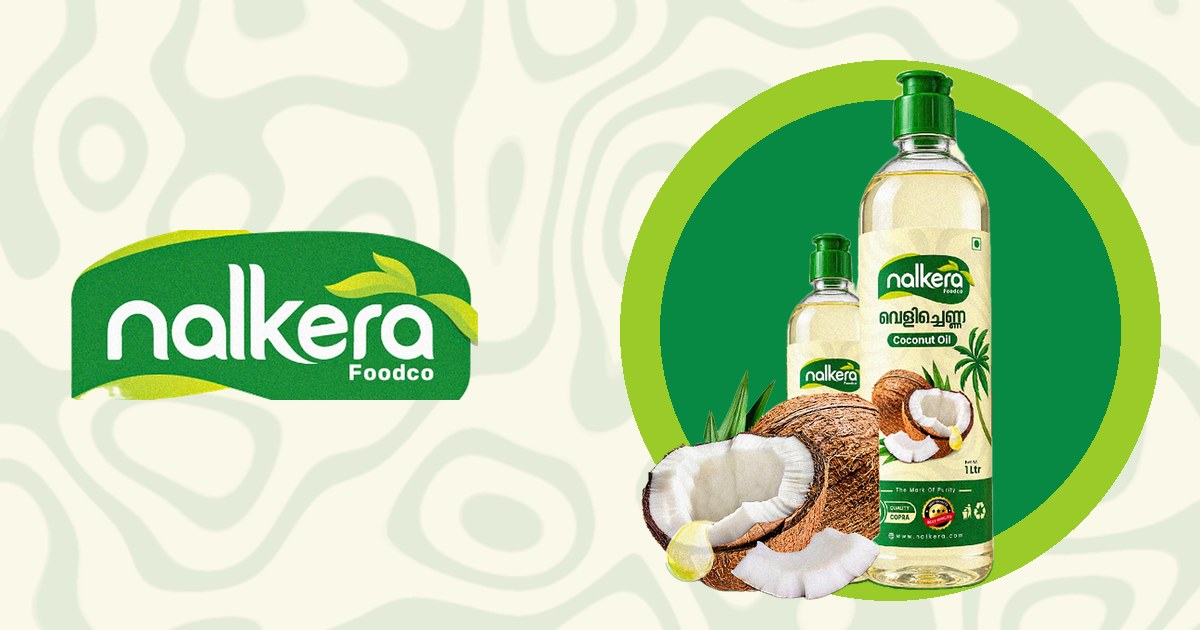
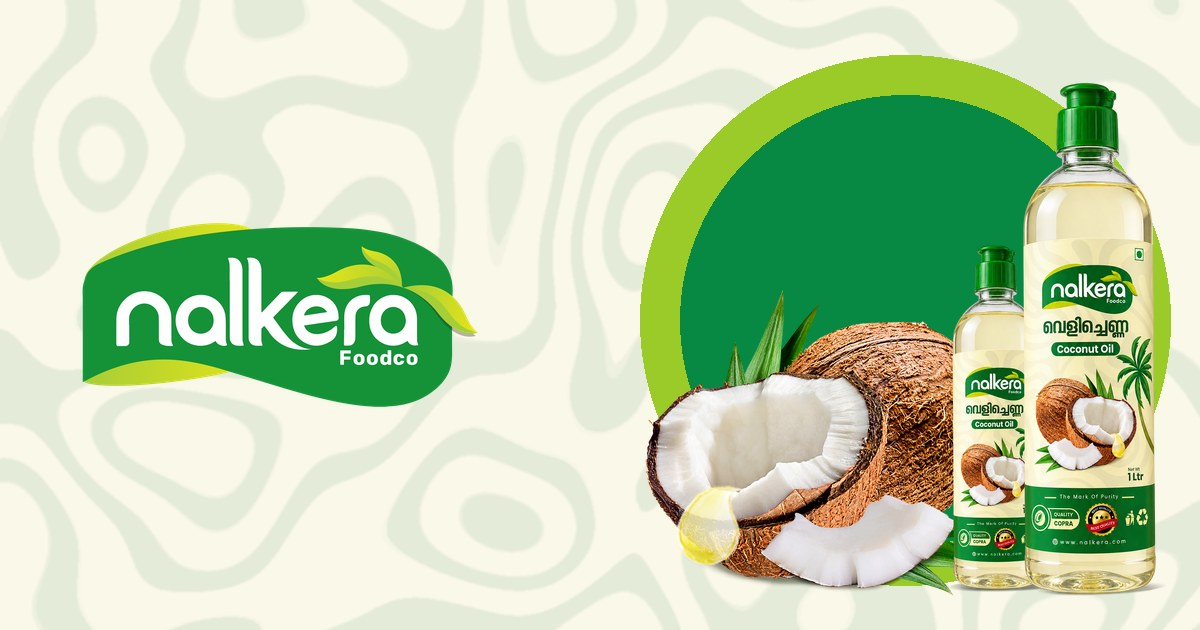
Update README with new brand asset locations and replace low-res images; add original design files for coconut oil products; update image paths in components to use new assets.

diff --git a/src/components/ContactSection.tsx b/src/components/ContactSection.tsx
@@ -78,7 +78,7 @@ export function ContactSection() {
             </motion.div>
           </div>
 
-          <div className="relative mx-auto hidden aspect-[3/4] w-full max-w-[380px] lg:block">
+          <div className="relative mx-auto hidden aspect-square w-full max-w-[460px] lg:block">
             <motion.div
               aria-hidden
               initial={{ scale: 0.8, opacity: 0 }}
@@ -92,15 +92,15 @@ export function ContactSection() {
               whileInView={{ opacity: 1, y: 0, rotate: 0 }}
               viewport={{ once: true, amount: 0.3 }}
               transition={{ duration: 1.4, ease, delay: 0.2 }}
-              className="absolute inset-0 flex justify-center"
+              className="absolute inset-0 flex items-center justify-center"
             >
               <Image
-                src="/images/nalkera-coconut-oil-bottles.png"
-                alt="Nalkera Coconut Oil bottles"
-                width={448}
-                height={1118}
-                sizes="300px"
-                className="h-full w-auto drop-shadow-[0_40px_40px_rgba(0,0,0,0.35)]"
+                src="/images/brand/nalkera-coconut-oil-with-coconut.png"
+                alt="Nalkera Coconut Oil bottles beside a halved coconut"
+                width={1587}
+                height={1571}
+                sizes="460px"
+                className="h-auto w-full drop-shadow-[0_40px_40px_rgba(0,0,0,0.35)]"
               />
             </motion.div>
           </div>

diff --git a/src/components/ProductShowcase.tsx b/src/components/ProductShowcase.tsx
@@ -15,17 +15,17 @@ const views = [
   {
     key: "single",
     label: "1 Ltr bottle",
-    src: "/images/nalkera-coconut-oil-1l.png",
-    width: 290,
-    height: 1118,
+    src: "/images/brand/nalkera-coconut-oil-1l.png",
+    width: 554,
+    height: 1954,
     alt: "Nalkera Coconut Oil 1 litre bottle with a green cap and a label reading വെളിച്ചെണ്ണ Coconut Oil",
   },
   {
     key: "pair",
     label: "Both bottles",
-    src: "/images/nalkera-coconut-oil-bottles.png",
-    width: 448,
-    height: 1118,
+    src: "/images/brand/nalkera-coconut-oil-bottles.png",
+    width: 836,
+    height: 1954,
     alt: "Two Nalkera Coconut Oil bottles side by side",
   },
 ] as const;
@@ -112,7 +112,7 @@ export function ProductShowcase() {
             transition={{ duration: 1.4, ease, delay: 0.5 }}
             className="absolute -right-2 bottom-[2%] w-[38%] sm:right-[2%]"
           >
-            <Image src="/images/coconut.png" alt="" width={680} height={648} sizes="220px" className="h-auto w-full -scale-x-100 drop-shadow-[0_20px_20px_rgba(4,63,37,0.3)]" />
+            <Image src="/images/brand/coconut.png" alt="" width={1357} height={1177} sizes="220px" className="h-auto w-full -scale-x-100 drop-shadow-[0_20px_20px_rgba(4,63,37,0.3)]" />
           </motion.div>
         </div>
 

diff --git a/src/components/HeroSection.tsx b/src/components/HeroSection.tsx
@@ -145,10 +145,10 @@ export function HeroSection() {
                 className="h-full"
               >
                 <Image
-                  src="/images/nalkera-coconut-oil-bottles.png"
+                  src="/images/brand/nalkera-coconut-oil-bottles.png"
                   alt="Two Nalkera Coconut Oil bottles with green caps and വെളിച്ചെണ്ണ Coconut Oil labels"
-                  width={448}
-                  height={1118}
+                  width={836}
+                  height={1954}
                   priority
                   sizes="(min-width: 1024px) 260px, 200px"
                   className="h-full w-auto drop-shadow-[0_30px_30px_rgba(4,63,37,0.35)]"
@@ -170,10 +170,10 @@ export function HeroSection() {
               transition={{ duration: 1.4, ease, delay: 0.8 }}
             >
               <Image
-                src="/images/coconut.png"
+                src="/images/brand/coconut.png"
                 alt=""
-                width={680}
-                height={648}
+                width={1357}
+                height={1177}
                 priority
                 sizes="(min-width: 1024px) 260px, 45vw"
                 className="h-auto w-full drop-shadow-[0_24px_24px_rgba(4,63,37,0.3)]"

diff --git a/src/components/Footer.tsx b/src/components/Footer.tsx
@@ -8,7 +8,7 @@ export function Footer() {
       <div className="mx-auto max-w-7xl px-5 pb-10 pt-20 md:px-8">
         <div className="grid gap-14 md:grid-cols-[1.5fr_1fr_1fr] md:gap-10">
           <div className="max-w-sm">
-            <Image src="/images/nalkera-logo.png" alt="Nalkera Foodco" width={768} height={320} sizes="150px" className="h-auto w-[150px]" />
+            <Image src="/images/brand/nalkera-logo.png" alt="Nalkera Foodco" width={1429} height={673} sizes="150px" className="h-auto w-[150px]" />
             <p className="mt-6 leading-relaxed text-ivory/70">{site.description}</p>
             <p lang="ml" className="mt-5 font-ml text-lg text-lime">
               {site.taglineMl}

diff --git a/src/components/Header.tsx b/src/components/Header.tsx
@@ -74,10 +74,10 @@ export function Header() {
         <nav aria-label="Primary" className="mx-auto flex max-w-7xl items-center justify-between gap-6 px-5 md:px-8">
           <a href="#home" className="shrink-0" onClick={() => setOpen(false)}>
             <Image
-              src="/images/nalkera-logo.png"
+              src="/images/brand/nalkera-logo.png"
               alt="Nalkera Foodco"
-              width={768}
-              height={320}
+              width={1429}
+              height={673}
               priority
               sizes="140px"
               className={cn("h-auto transition-[width] duration-500 ease-organic", solid ? "w-[104px]" : "w-[118px] md:w-[132px]")}

diff --git a/src/components/AboutSection.tsx b/src/components/AboutSection.tsx
@@ -46,10 +46,10 @@ export function AboutSection() {
                 നല്ല
               </p>
               <Image
-                src="/images/coconut.png"
+                src="/images/brand/coconut.png"
                 alt="A halved coconut with fresh white flesh and a drop of golden oil"
-                width={680}
-                height={648}
+                width={1357}
+                height={1177}
                 sizes="(min-width: 1024px) 420px, 80vw"
                 className="absolute bottom-[10%] left-1/2 h-auto w-[86%] -translate-x-1/2 drop-shadow-[0_30px_30px_rgba(0,0,0,0.3)]"
               />

diff --git a/src/components/HeritageSection.tsx b/src/components/HeritageSection.tsx
@@ -68,10 +68,10 @@ export function HeritageSection() {
           >
             <div aria-hidden className="absolute inset-[8%] -z-10 rounded-full bg-leaf/50 blur-3xl" />
             <Image
-              src="/images/nalla-keralathinte-ruchi.png"
+              src="/images/brand/nalla-keralathinte-ruchi.png"
               alt=""
-              width={340}
-              height={245}
+              width={1571}
+              height={1095}
               sizes="380px"
               className="h-auto w-full"
             />

diff --git a/src/app/page.tsx b/src/app/page.tsx
@@ -15,7 +15,7 @@ const jsonLd = {
   name: site.company,
   alternateName: site.brand,
   url: site.url,
-  logo: `${site.url}/images/nalkera-logo.png`,
+  logo: `${site.url}/images/brand/nalkera-logo.png`,
   telephone: "+91-7356045804",
   address: { "@type": "PostalAddress", addressLocality: "Poochol", addressRegion: "Kerala", addressCountry: "IN" },
   contactPoint: { "@type": "ContactPoint", telephone: "+91-7356045804", contactType: "customer service", areaServed: "IN" },

diff --git a/README.md b/README.md
@@ -19,21 +19,24 @@ npm run build && npm start
 
 ## Brand assets
 
-All product imagery is cut out of the official inauguration poster (1211×1511 px), so it is
-low resolution. Replace these files in `public/images/` with official originals when available
-(same names, transparent PNG):
+Official images from the design team live in `public/images/brand/`, trimmed from the original
+2160×2700 canvases. The untouched originals are kept in `design/originals/` (not deployed).
 
-| File | Needed original |
+| File | Source original |
 | --- | --- |
-| `nalkera-logo.png` | Vector logo (SVG) — the poster crop has a soft left edge |
-| `nalkera-coconut-oil-bottles.png` | High-res packshot of both bottles, transparent background |
-| `nalkera-coconut-oil-1l.png` | High-res packshot of the 1 Ltr bottle |
-| `coconut.png` | High-res coconut photograph |
-| `nalla-keralathinte-ruchi.png` | Vector of the Malayalam tagline lettering |
-| `og-image.jpg` | Regenerate from the high-res assets |
+| `nalkera-logo.png` | `logo.png` |
+| `nalkera-coconut-oil-bottles.png` | `bottle 2.png` |
+| `nalkera-coconut-oil-1l.png` | `1 ltr bottle.png` |
+| `nalkera-coconut-oil-with-coconut.png` | `bottle with coco.png` |
+| `coconut.png` | `coco.png` |
+| `nalla-keralathinte-ruchi.png` | `nalla keralathinte ruchi.png` |
 
-Not yet on the site because they are unverified: the smaller bottle's pack size, social media
-profiles, and any claims about processing, sourcing or certification.
+`og-image.jpg` and the app icons in `src/app/` are generated from these. `pattern.webp` is a
+generated background texture inspired by the poster.
+
+`500 ml bottle.png` is not used yet: its label artwork reads "Net Wt 1 Ltr", so the 500 ml size
+needs confirming with the design team before it goes on the site. Also not on the site because
+they are unverified: social media profiles, and any claims about processing, sourcing or certification.
 
 ## Malayalam font
 
